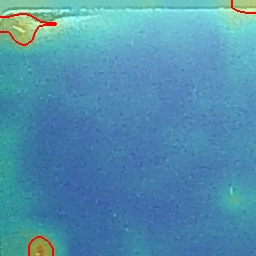
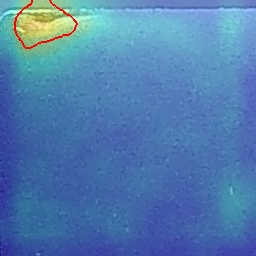
update configs file

diff --git a/infer.py b/infer.py
@@ -11,7 +11,7 @@ from anomalib.deploy import TorchInferencer, OpenVINOInferencer
 #from anomalib.deploy.inferencers.openvino_inferencer import OpenVINOInferencer
 
 model_name = sys.argv[1]
-path = 'datasets/laptop/test/crack'
+path = 'samples/crack'
 DIM = 256
 
 # visualizer
@@ -32,16 +32,13 @@ config_path = f'model/{model_name}/mvtec/laptop/run/config.yaml'
 model_path = f'model/{model_name}/mvtec/laptop/run/weights/model.ckpt'
 inferencer = TorchInferencer(config=config_path,model_source=model_path,device ='auto')
 
-# images = os.listdir(path)
-# image = random.choice(images)
-
-image = 'samples/crack/09062022091124_top_crop.jpg'
+images = os.listdir(path)
+image = random.choice(images)
 
 if __name__ == "__main__":
     # Start counting time
     start_time = time.time()
-    #img = cv2.imread(os.path.join(path,image))
-    img = cv2.imread(image)
+    img = cv2.imread(os.path.join(path,image))
     h,w,_ = img.shape
     top_left = img[0:DIM,0:DIM]
     top_right = img[0:DIM,w-DIM:w]
